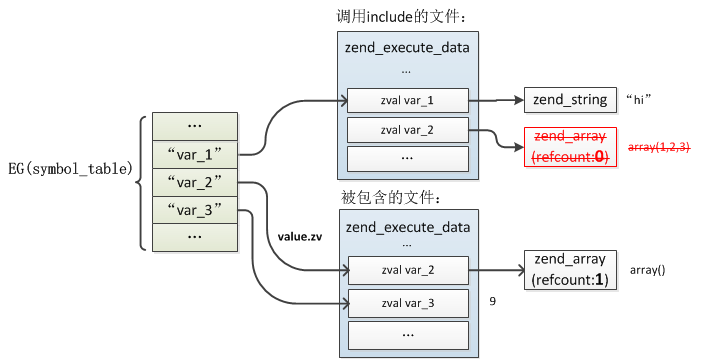
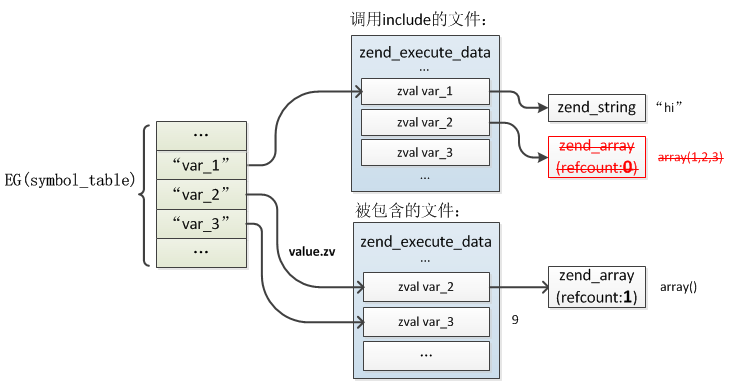
update

Changed region(s): [[0.0, 0.0302, 1.0, 0.9973]]

diff --git a/4/include.md b/4/include.md
@@ -102,7 +102,34 @@ static ZEND_OPCODE_HANDLER_RET ZEND_FASTCALL ZEND_INCLUDE_OR_EVAL_SPEC_CONST_HAN
 
 看到这里你可能会有一个疑问：$var_2既然被重新修改为新的一个值了，那么为什么调用文件中的$var_2仍然指向释放掉的value呢？include执行完成回到原来的调用文件中后为何可以读取到新的$var_2值以及新定义的var_3呢？答案在被包含文件执行完毕return的过程中。
 
-被包含文件执行完以后最后执行return返回调用文件include的位置，return时会把***被包含文件中的***全局变量从zend_execute_data中移到EG(symbol_table)中，这里的移动是把value值更新到EG(symbol_table)，而不是像原来那样间接的指向value，这个过程由`zend_detach_symbol_table()`完成：
+被包含文件执行完以后最后执行return返回调用文件include的位置，return时会把***被包含文件中的***全局变量从zend_execute_data中移到EG(symbol_table)中，这里的移动是把value值更新到EG(symbol_table)，而不是像原来那样间接的指向value，这个操作在`zend_detach_symbol_table()`中完成，具体的return处理：
+```c
+static ZEND_OPCODE_HANDLER_RET ZEND_FASTCALL zend_leave_helper_SPEC(ZEND_OPCODE_HANDLER_ARGS)
+{
+    ...
+    if (EXPECTED((ZEND_CALL_KIND_EX(call_info) & ZEND_CALL_TOP) == 0)) {
+        //将include文件中定义的变量移到EG(symbol_table)
+        zend_detach_symbol_table(execute_data);
+        //释放zend_op_array
+        destroy_op_array(&EX(func)->op_array);
+        
+        old_execute_data = execute_data;
+        //切回调用文件的zend_execute_data
+        execute_data = EG(current_execute_data) = EX(prev_execute_data);
+        //释放include文件的zend_execute_data
+        zend_vm_stack_free_call_frame_ex(call_info, old_execute_data);
+
+        //重新attach
+        zend_attach_symbol_table(execute_data);
+
+        LOAD_NEXT_OPLINE();
+        ZEND_VM_LEAVE();
+    }else{
+        //函数、主脚本返回的情况
+    }
+}
+```
+`zend_detach_symbol_table()`操作：
 ```c
 ZEND_API void zend_detach_symbol_table(zend_execute_data *execute_data)
 {   
@@ -132,6 +159,6 @@ ZEND_API void zend_detach_symbol_table(zend_execute_data *execute_data)
 
 ![](../img/include_4.png)
 
-include文件在attach_symbol_table()时如果发现要插入的全局变量已经存在，则会将新的全局变量的value指向原value，然后将全局变量更新为新的全局变量。
+接着是还原调用文件的zend_execute_data，切回调用文件的include位置，在将执行器切回之前再次执行了`zend_attach_symbol_table()`，这时就会将原调用文件的变量重新插入全局变量符号表，插入$var_2、$var_3时发现已经存在了，则将局部变量区的$var_2、$var_3的value修改为这个值，这就是$var_2被include文件更新后覆盖原value的过程，同时$var_3也因为在调用文件中出现了所以值被修改为include中设定的值，此时的内存关系：
 
-include执行完成return时zend_detach_symbol_table()时会将所有的全局变量的value拷到EG(symbol_table)中(CV->symbol table)，原调用文件重新attach，这样会把include文件中的全局变量移到当前文件，如果include中修改了原文件的全局变量，此时也会将更新后的value重新赋给原文件的变量(symbol table -> CV)。
+
